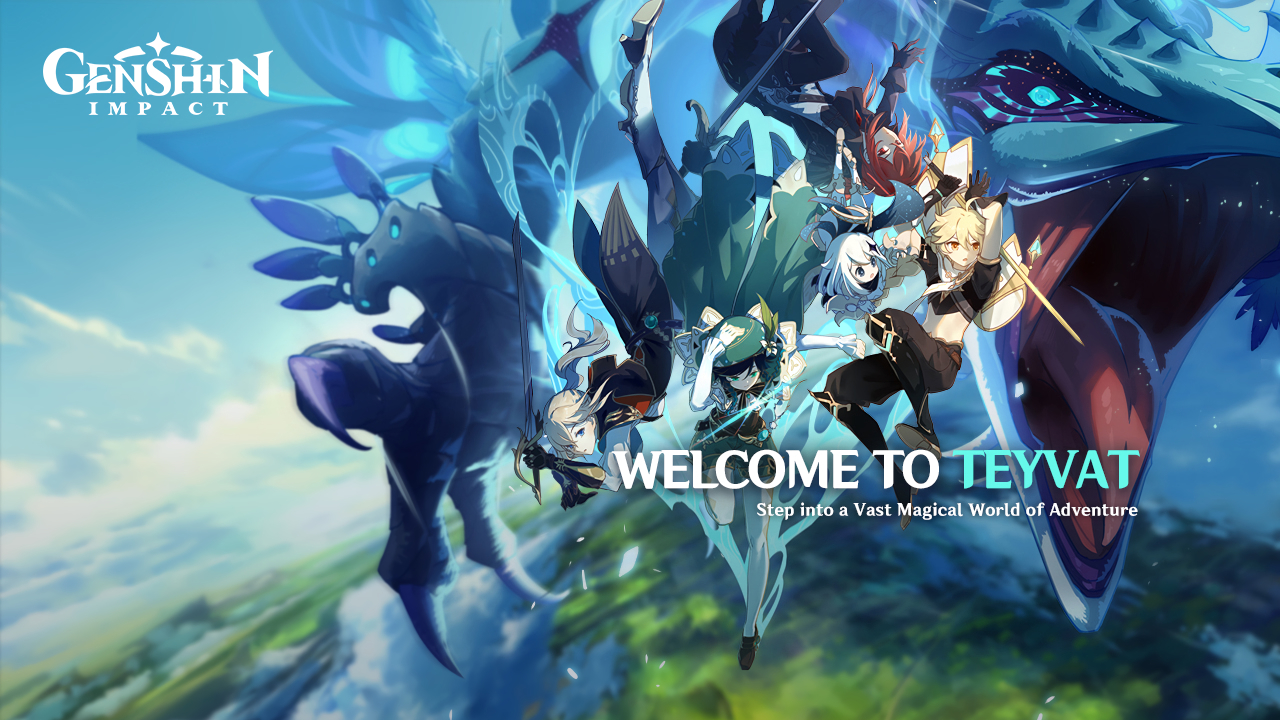
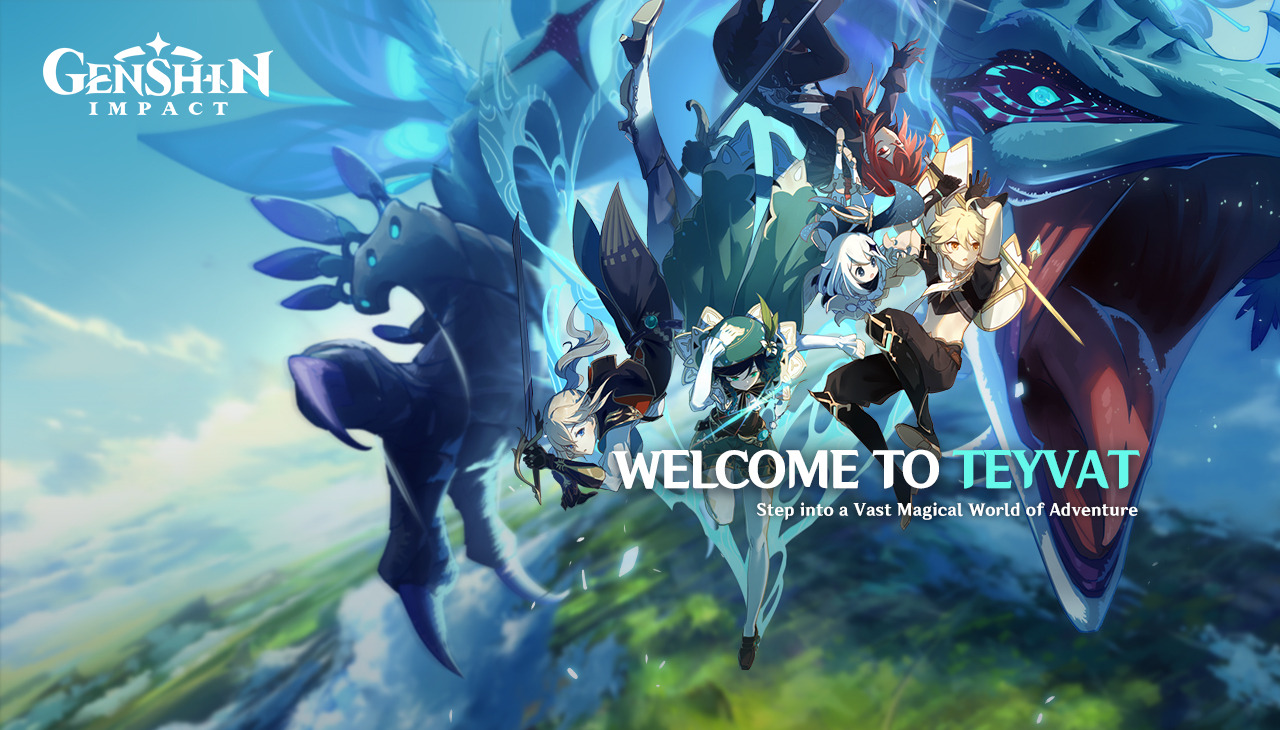
Dev Commit | Bug fixes
[ Fixes ]
- Fixed where an Invalid game selected like
Genshin Impact Location was set on a Honkai Star Rail Location.
Even it throws an error, when switching to HSR game it will show the Genshin.

- Fixed where the Settings Window is not Draggable.

[ Changes ]
- Settings "Others" tab changes.
- Genshin and HSR default background size reduced.

diff --git a/src/HoyoLauncherSettings/HoyoSettings.xaml b/src/HoyoLauncherSettings/HoyoSettings.xaml
@@ -28,46 +28,70 @@
                 </Grid>
             </Border>
 
-            <Grid>
-                <Border Name="Button_Location"  Background="#f6f5f3" Margin="40,101,660,390" CornerRadius="10,10,0,0">
-                    <TextBlock Text="Locations" FontWeight="Bold" HorizontalAlignment="Center" VerticalAlignment="Center" FontSize="18" FontFamily="Segoe ui"/>
+            <Grid Mouse.MouseDown="ChangePageClick">
+                <Border Name="Button_Locations"  Background="#f6f5f3" Margin="40,101,660,390" CornerRadius="10,10,0,0">
+                    <TextBlock Foreground="#997f5f" IsHitTestVisible="False" Text="Locations" FontWeight="Bold" HorizontalAlignment="Center" VerticalAlignment="Center" FontSize="18" FontFamily="Segoe ui"/>
                 </Border>
                 <Border Name="Button_Others" Background="#e3e1de" Margin="161,101,539,390" CornerRadius="10,10,0,0">
-                    <TextBlock Text="Others" FontWeight="Bold" HorizontalAlignment="Center" VerticalAlignment="Center" FontSize="18" FontFamily="Segoe ui"/>
+                    <TextBlock IsHitTestVisible="False" Text="Others" FontWeight="Bold" HorizontalAlignment="Center" VerticalAlignment="Center" FontSize="18" FontFamily="Segoe ui"/>
                 </Border>
                 <Border Name="Button_About" Background="#e3e1de" Margin="282,101,418,390" CornerRadius="10,10,0,0">
-                    <TextBlock Text="About" FontWeight="Bold" HorizontalAlignment="Center" VerticalAlignment="Center" FontSize="18" FontFamily="Segoe ui"/>
+                    <TextBlock IsHitTestVisible="False" Text="About" FontWeight="Bold" HorizontalAlignment="Center" VerticalAlignment="Center" FontSize="18" FontFamily="Segoe ui"/>
                 </Border>
             </Grid>
 
             <Border Background="#f6f5f3" Margin="30,130,30,80" CornerRadius="10">
                 <Grid>
-                    <Canvas Name="Locations" Visibility="Visible">
-                        <TextBlock Text="Genshin Impact Location: " FontSize="20" FontWeight="SemiBold" Margin="10,11,10,299"/>
+                    <Canvas Name="Locations" Visibility="Visible" ButtonBase.Click="LocationButtonClick">
+                        <TextBlock Text="Genshin Impact Location: " FontSize="20" FontWeight="SemiBold" Canvas.Left="18" Canvas.Top="14" HorizontalAlignment="Center" VerticalAlignment="Top"/>
                         <TextBox Name="GI_DIR_TXT" Style="{StaticResource TextBoxStyle}" IsReadOnly="True" Canvas.Left="29" Canvas.Top="46" Width="564"/>
-                        <Button Name="GI_LOCATE" Content="Open Folder" Style="{StaticResource MainButton}" BorderBrush="Gray" Foreground="Black" Click="GenshinClick" FontSize="14" BorderThickness="2" Height="29" Canvas.Left="611" Canvas.Top="46" HorizontalAlignment="Left" VerticalAlignment="Center" Width="132"/>
+                        <Button Name="GI_LOCATE" Content="Open Folder" Style="{StaticResource MainButton}" BorderBrush="Gray" Foreground="Black" FontSize="14" BorderThickness="2" Height="29" Canvas.Left="611" Canvas.Top="46" HorizontalAlignment="Left" VerticalAlignment="Center" Width="132"/>
 
-                        <TextBlock Text="Honkai Star Rail Location: " FontSize="20" FontWeight="SemiBold" Margin="10,81,10,229"/>
+                        <TextBlock Text="Honkai Star Rail Location: " FontSize="20" FontWeight="SemiBold" HorizontalAlignment="Center" Canvas.Left="18" Canvas.Top="84" VerticalAlignment="Top"/>
                         <TextBox Name="HSR_DIR_TXT" Style="{StaticResource TextBoxStyle}" IsReadOnly="True" Canvas.Left="29" Canvas.Top="116" Width="564"/>
-                        <Button Name="HSR_LOCATE" Content="Open Folder" Style="{StaticResource MainButton}" BorderBrush="Gray" Foreground="Black" Click="HSRClick" FontSize="14" BorderThickness="2" Height="29" Canvas.Left="611" Canvas.Top="116" HorizontalAlignment="Left" VerticalAlignment="Center" Width="132"/>
+                        <Button Name="HSR_LOCATE" Content="Open Folder" Style="{StaticResource MainButton}" BorderBrush="Gray" Foreground="Black" FontSize="14" BorderThickness="2" Height="29" Canvas.Left="611" Canvas.Top="116" HorizontalAlignment="Left" VerticalAlignment="Center" Width="132"/>
 
-                        <TextBlock Text="Honkai Impact 3rd Location: " FontSize="20" FontWeight="SemiBold" Margin="10,151,10,159"/>
+                        <TextBlock Text="Honkai Impact 3rd Location: " FontSize="20" FontWeight="SemiBold" HorizontalAlignment="Center" Canvas.Left="18" Canvas.Top="154" VerticalAlignment="Top"/>
                         <TextBox Name="HI3_DIR_TXT" Style="{StaticResource TextBoxStyle}" IsReadOnly="True" Canvas.Left="29" Canvas.Top="186" Width="564"/>
-                        <Button Name="HI3_LOCATE" Content="Open Folder" Style="{StaticResource MainButton}" BorderBrush="Gray" Foreground="Black" Click="HI3Click" FontSize="14" BorderThickness="2" Height="29" Canvas.Left="611" Canvas.Top="186" HorizontalAlignment="Left" VerticalAlignment="Center" Width="132"/>
+                        <Button Name="HI3_LOCATE" Content="Open Folder" Style="{StaticResource MainButton}" BorderBrush="Gray" Foreground="Black" FontSize="14" BorderThickness="2" Height="29" Canvas.Left="611" Canvas.Top="186" HorizontalAlignment="Left" VerticalAlignment="Center" Width="132"/>
 
-                        <TextBlock Text="Zenless Zone Zero Location: " FontSize="20" FontWeight="SemiBold" Margin="10,221,10,89"/>
+                        <TextBlock Text="Zenless Zone Zero Location: " FontSize="20" FontWeight="SemiBold" HorizontalAlignment="Center" Canvas.Left="18" Canvas.Top="224" VerticalAlignment="Top"/>
                         <TextBox x:Name="ZZZ_DIR_TXT" Text="Unavailable" Style="{StaticResource TextBoxStyle}" HorizontalContentAlignment="Center" IsReadOnly="True" Canvas.Left="29" Canvas.Top="256" Width="564"/>
                         <Button Name="ZZZ_LOCATE" Content="Open Folder" IsEnabled="False" Style="{StaticResource MainButton}" BorderBrush="Gray" Foreground="Gray" FontSize="14" BorderThickness="2" Height="29" Canvas.Left="611" Canvas.Top="256" HorizontalAlignment="Left" VerticalAlignment="Center" Width="132"/>
                     </Canvas>
 
                     <Canvas Name="Others" Visibility="Hidden" Margin="20">
-                        <Border Name="RadioButtonTray_Click" Cursor="Hand" Background="Transparent" Height="26" Width="164">
-                            <RadioButton Name="RadioButtonTray" IsHitTestVisible="False" Content="Minimize to Tray" Margin="0,0,55,9">
+
+                        <Border Background="#e3e1de" HorizontalAlignment="Left" Height="270" VerticalAlignment="Center" Width="360" Canvas.Left="360" CornerRadius="10" Padding="15">
+                            <TextBlock Name="Tooltip_Text" Text="[TOOL TIP TEXT MESSAGES | INFO ]" FontSize="20" TextWrapping="Wrap"/>
+                        </Border>
+
+                        <Border Name="RadioButtonTray_Click" Cursor="Hand" Background="Transparent" Height="26" Width="164" HorizontalAlignment="Center" Canvas.Top="24" VerticalAlignment="Top" Canvas.Left="31">
+                            <RadioButton Name="RadioButtonTray" IsHitTestVisible="False" Content="Minimize to Tray" Margin="-20,0,75,9">
                                 <RadioButton.RenderTransform>
                                     <ScaleTransform ScaleX="1.5" ScaleY="1.5"/>
                                 </RadioButton.RenderTransform>
                             </RadioButton>
                         </Border>
+
+                        <Border Name="RadioButtonBackground_Click" Cursor="Hand" Background="Transparent" Height="26" Width="233" HorizontalAlignment="Left" Canvas.Top="65" VerticalAlignment="Center" Canvas.Left="11">
+                            <RadioButton Name="RadioButtonBackground" IsHitTestVisible="False" Content="Enable Background Video" Margin="0,0,55,9">
+                                <RadioButton.RenderTransform>
+                                    <ScaleTransform ScaleX="1.5" ScaleY="1.5"/>
+                                </RadioButton.RenderTransform>
+                            </RadioButton>
+                        </Border>
+
+                        <Border Name="RadioButtonSelectiveStartup_Click" Cursor="Hand" Background="Transparent" Height="26" Width="301" HorizontalAlignment="Left" Canvas.Top="106" VerticalAlignment="Center" Canvas.Left="11">
+                            <RadioButton Name="RadioButtonSelectiveStartup" IsHitTestVisible="False" Content="Enable Last Game Played on Start" Margin="0,0,55,9">
+                                <RadioButton.RenderTransform>
+                                    <ScaleTransform ScaleX="1.5" ScaleY="1.5"/>
+                                </RadioButton.RenderTransform>
+                            </RadioButton>
+                        </Border>
+
+                        <Button Content="Clear Locations" Style="{StaticResource MainButton}" BorderBrush="Gray" Foreground="#997f5f" FontSize="14" BorderThickness="2" Height="29" Canvas.Top="241" HorizontalAlignment="Left" VerticalAlignment="Center" Width="132" Canvas.Left="11"/>
+
                     </Canvas>
 
                     <Canvas Name="About" Visibility="Hidden">
@@ -87,7 +111,7 @@
                             <LineBreak/>
                             <Hyperlink Click="GithubPR">Contribute on the Project</Hyperlink>
                         </TextBlock>
-                        <Image Source="/Resources/HoyoVerseIcon.png" Stretch="Fill" Cursor="Hand" Height="130" Width="130" Canvas.Top="-2" HorizontalAlignment="Center" VerticalAlignment="Top"/>
+                        <Image Source="/Resources/HoyoVerseIcon.png" Stretch="Fill" Height="130" Width="130" Canvas.Top="-2" HorizontalAlignment="Center" VerticalAlignment="Top"/>
                         <Image Source="/Resources/github.png" MouseDown="GithubIconButton" Stretch="Fill" Cursor="Hand" Height="40" Canvas.Left="508" Width="40" Canvas.Top="252" HorizontalAlignment="Left" VerticalAlignment="Center"/>
                     </Canvas>
                 </Grid>

diff --git a/src/HoyoLauncherSettings/SettingsDictionary.xaml b/src/HoyoLauncherSettings/SettingsDictionary.xaml
@@ -82,7 +82,7 @@
                             BorderBrush="{TemplateBinding BorderBrush}"
                             BorderThickness="1"
                             CornerRadius="5">
-                        <ScrollViewer Margin="5,0,5,0" x:Name="PART_ContentHost" />
+                        <ScrollViewer Margin="5,-1,5,2" x:Name="PART_ContentHost" />
                     </Border>
                     <ControlTemplate.Triggers>
                         <EventTrigger RoutedEvent="MouseEnter">

diff --git a/src/HoyoLauncherSettings/HoyoSettings.xaml.cs b/src/HoyoLauncherSettings/HoyoSettings.xaml.cs
@@ -3,7 +3,6 @@
 public partial class HoyoSettings : Window
 {
 
-    // Hear me out, I'm kinda lazy when making the Button_Location etc.. so fuck the mess
     readonly Brush SelectedPageColor = new BrushConverter().ConvertFromString("#f6f5f3") as Brush;
     readonly Brush UnSelectedPageColor = new BrushConverter().ConvertFromString("#e3e1de") as Brush;
 
@@ -16,7 +15,7 @@ public partial class HoyoSettings : Window
 
         HoyoWindow.BLACK_THING.Opacity = 0.5;
 
-        WindowDrag.MouseDown += (s, e) => {  };
+        WindowDrag.MouseDown += (s, e) => { if (e.ChangedButton is MouseButton.Left) DragMove(); };
         ExitButton.Click   += (s, e) => Close();
         CancelButton.Click += (s, e) => Close();
 
@@ -27,10 +26,6 @@ public partial class HoyoSettings : Window
             if (e.ChangedButton is MouseButton.Left)
                 AppSettings.Settings.Default.MinimizedTray = (bool)(RadioButtonTray.IsChecked = !RadioButtonTray.IsChecked);
         };
-
-        Button_Location.MouseDown += (s, e) =>  ChangePage(e, location: 0);
-        Button_Others.MouseDown += (s, e) =>    ChangePage(e, others: 0);
-        Button_About.MouseDown += (s, e) =>     ChangePage(e, about: 0);
     }
 
     private void OnLoaded(object sender, RoutedEventArgs e)
@@ -46,22 +41,30 @@ public partial class HoyoSettings : Window
         base.OnClosed(e);
     }
 
-    static void GetFolderDirectory(TextBox txt)
+    void LocationButtonClick(object s, RoutedEventArgs e)
     {
         using var Folder = new Forms.FolderBrowserDialog();
+        TextBox textBox = null;
 
-        if(Folder.ShowDialog() is Forms.DialogResult.Cancel)
+        switch(((Button)e.Source).Name)
+        {
+            case "GI_LOCATE":
+                textBox = GI_DIR_TXT;
+                break;
+            case "HSR_LOCATE":
+                textBox = HSR_DIR_TXT;
+                break;
+            case "HI3_LOCATE":
+                textBox = HI3_DIR_TXT;
+                break;
+        }
+        e.Handled = true;
+
+        if (Folder.ShowDialog() is Forms.DialogResult.Cancel)
             return;
 
-        txt.Text = Folder.SelectedPath;
+        textBox.Text = Folder.SelectedPath;
     }
-
-    void GenshinClick(object s, RoutedEventArgs e) =>
-        GetFolderDirectory(GI_DIR_TXT);
-    void HSRClick(object s, RoutedEventArgs e) =>
-        GetFolderDirectory(HSR_DIR_TXT);
-    void HI3Click(object s, RoutedEventArgs e) =>
-        GetFolderDirectory(HI3_DIR_TXT);
 
     void ConfirmClick(object s, RoutedEventArgs e)
     {
@@ -97,20 +100,33 @@ public partial class HoyoSettings : Window
             Close();
     }
 
-    void ChangePage(MouseButtonEventArgs e,
-                    Visibility location = Visibility.Hidden,
-                    Visibility others = Visibility.Hidden,
-                    Visibility about = Visibility.Hidden)
+    // lmao "List" was unnecessary but i like chaos
+    void ChangePageClick(object s, MouseButtonEventArgs e)
     {
+        var sButton = ((Border)e.Source);
+        List<Canvas> pages = new() { Locations, Others, About };
+        List<Border> buttons = new() { Button_Locations, Button_Others, Button_About };
+
         if (e.ChangedButton is not MouseButton.Left) return;
 
-        Locations.Visibility = location;
-        Others.Visibility = others;
-        About.Visibility = about;
+        foreach (var page in pages)
+            page.Visibility = Visibility.Hidden;
 
-        Button_Location.Background = location is Visibility.Visible ? SelectedPageColor : UnSelectedPageColor;
-        Button_Others.Background = others is Visibility.Visible ? SelectedPageColor : UnSelectedPageColor;
-        Button_About.Background = about is Visibility.Visible ? SelectedPageColor : UnSelectedPageColor;
+        foreach (var button in buttons)
+        {
+            ((TextBlock)button.Child).Foreground = Brushes.Black;
+            button.Background = UnSelectedPageColor;
+        }
+
+        sButton.Background = SelectedPageColor;
+        ((TextBlock)sButton.Child).Foreground = (Brush)new BrushConverter().ConvertFromString("#997f5f");
+
+        switch (sButton.Name)
+        {
+            case "Button_Locations":    Locations.Visibility = Visibility.Visible;  break;
+            case "Button_Others":       Others.Visibility = Visibility.Visible;     break;
+            case "Button_About":        About.Visibility = Visibility.Visible;      break;
+        }
     }
 
     static void RefreshCurrentSelectedGame()

diff --git a/src/HoyoLauncher.Core/Config/ConfigRead.cs b/src/HoyoLauncher.Core/Config/ConfigRead.cs
@@ -10,6 +10,7 @@ public sealed class ConfigRead
     public string GameInstallPath { get; private set; }
     public string GameBackgroundName { get; private set; }
     public string GameStartName { get; private set; }
+    public string GameName { get ; private set; }
     public ImageBrush GameBackground { get; private set; }
 
     public static ConfigRead GetConfig(string FilePath)
@@ -62,7 +63,8 @@ public sealed class ConfigRead
             GameInstallPath = gamepath,
             GameBackgroundName = Path.Combine(FilePath, "bg", gamebg),
             GameStartName = Path.Combine(gamepath, gamename),
-            GameBackground = GameBG_TEMP
+            GameBackground = GameBG_TEMP,
+            GameName = gamename
         };
     }    
 }

diff --git a/src/HoyoLauncher.Core/HoyoMain.cs b/src/HoyoLauncher.Core/HoyoMain.cs
@@ -59,13 +59,14 @@ public sealed class HoyoMain
             values.LaunchButton = false;
             values.LaunchButtonContent = AppResources.Resources.GAME_SOON_TEXT;
         }
-        else if(!GameConfig.ConfigExist)
+        else if(!GameConfig.ConfigExist || GameConfig.GameName != CurrentGameSelected.GAME_EXECUTABLE)
         {
             values.LaunchButton = false;
+            values.Background = CurrentGameSelected.GAME_DEFAULT_BG;
             values.LaunchButtonContent = AppResources.Resources.GAME_NOTFOUND;
         }
 
-        if(IsGameRunning)
+        if (IsGameRunning)
         {
             values.LaunchButton = false;
             values.LaunchButtonContent = AppResources.Resources.GAME_LAUNCHED_TEXT;
